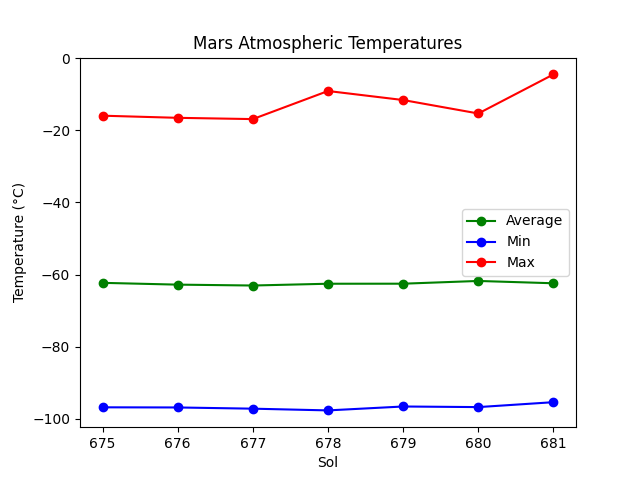
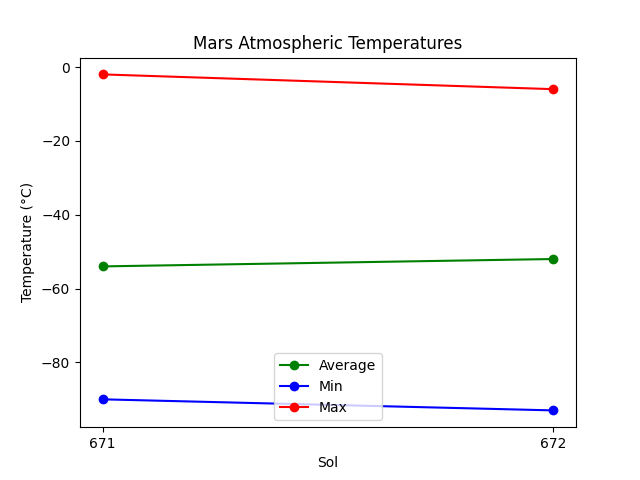
Added integration tests

diff --git a/tests/integration/test_integration_end_to_end.py b/tests/integration/test_integration_end_to_end.py
@@ -1,0 +1,62 @@
+from marsWeatherReport import getWeatherFromMars, jsonValidation, detailedSol, plottingTemps
+import pytest
+import matplotlib
+from unittest.mock import patch, Mock
+import requests
+
+# ----------------------------
+# HAPPY PATH: valid workflow
+# ----------------------------
+
+@patch("marsWeatherReport.api.requests.get")
+@patch("matplotlib.pyplot.show")
+@pytest.mark.parametrize("goodJsonStructure, selectedSol", [
+    ({"671": {"AT": {"av": -54,"ct": 177556,"mn": -90,"mx": -2}}, "sol_keys": ["671"]}, "671"), # just one value
+    ({"671": {"AT": {"av": -54,"ct": 177556,"mn": -90,"mx": -2}}, "672": {"AT": {"av": -52,"ct": 177556,"mn": -93,"mx": -6}}, "sol_keys": ["671", "672"]}, "671")  # two values
+])
+def test_integration_end_to_end_solDetail_happy(mock_show, mock_get, goodJsonStructure, selectedSol, capsys):
+    
+    mock_resp = Mock()
+    mock_resp.status_code = 200
+    mock_resp.json = Mock(return_value=goodJsonStructure)
+    mock_get.return_value = mock_resp
+    
+    data = getWeatherFromMars()
+    
+    validatedData = jsonValidation(data)
+    
+    av = goodJsonStructure[selectedSol]["AT"]["av"]
+    mn = goodJsonStructure[selectedSol]["AT"]["mn"]
+    mx = goodJsonStructure[selectedSol]["AT"]["mx"]
+    
+    detailedSol(validatedData, selectedSol)
+    
+    captured = capsys.readouterr()
+    
+    assert f"SOL {selectedSol} was chosen." in captured.out
+    assert f"Average temperature: {av}°C" in captured.out
+    assert f"Lowest temperature recorded: {mn}°C" in captured.out
+    assert f"Highest temperature recorded: {mx}°C" in captured.out
+    
+    
+@patch("matplotlib.pyplot.show")
+@patch("marsWeatherReport.api.requests.get")
+@pytest.mark.parametrize("goodJsonStructure", [
+    {"671": {"AT": {"av": -54,"ct": 177556,"mn": -90,"mx": -2}}, "sol_keys": ["671"]},
+    {"671": {"AT": {"av": -54,"ct": 177556,"mn": -90,"mx": -2}}, "672": {"AT": {"av": -52,"ct": 177556,"mn": -93,"mx": -6}}, "sol_keys": ["671", "672"]}
+])
+def test_integration_end_to_end_graph_happy(mock_get, mock_show, goodJsonStructure):
+    mock_resp = Mock()
+    mock_resp.status_code = 200
+    mock_resp.json = Mock(return_value=goodJsonStructure)
+    mock_get.return_value = mock_resp
+
+    data = getWeatherFromMars()
+    validatedData = jsonValidation(data)
+
+    availableSols = validatedData["sol_keys"]
+    fig = plottingTemps(validatedData, availableSols)
+
+    assert data == goodJsonStructure
+    assert isinstance(fig, matplotlib.figure.Figure)
+    mock_show.assert_called_once()

diff --git a/tests/unit/test_api.py b/tests/unit/test_api.py
@@ -42,7 +42,7 @@ def test_getWeatherFromMars_emptyAPI_failure(mock_getenv):
 
     with pytest.raises(ValueError) as exp:
         getWeatherFromMars()
-    assert str(exp.value) == "API_KEY is missing, please add your NASA API key as an environment variable  or in a .env file"
+    assert str(exp.value) == 'API_KEY is missing, please add your NASA API key as an environment variable or in a .env file'
     
 
 @pytest.mark.parametrize("effect, expectedErrorMessage, statusCode",[

diff --git a/tests/unit/test_jsonValidation.py b/tests/unit/test_jsonValidation.py
@@ -14,7 +14,6 @@ import pytest
 def test_detailedSol_invalidJSONStructure_happy(goodJsonStructure):
     assert jsonValidation(goodJsonStructure) == goodJsonStructure
 
-
 # ----------------------------
 # Sad PATH: invalid json data
 # ----------------------------

diff --git a/tests/unit/test_generatingGraph.py b/tests/unit/test_generatingGraph.py
@@ -1,6 +1,6 @@
 from marsWeatherReport import plottingTemps
-from conftest import jsonSampleData
 from unittest.mock import patch
+from tests.conftest import jsonSampleData
 import matplotlib
 import pytest
 

diff --git a/tests/unit/test_detailedSol.py b/tests/unit/test_detailedSol.py
@@ -1,5 +1,5 @@
 from marsWeatherReport import detailedSol
-from conftest import jsonSampleData
+from tests.conftest import jsonSampleData
 import pytest
 
 # ----------------------------
